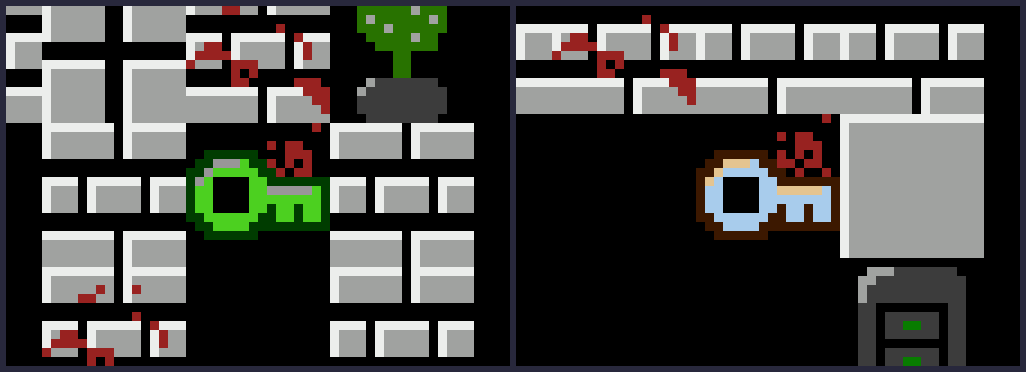
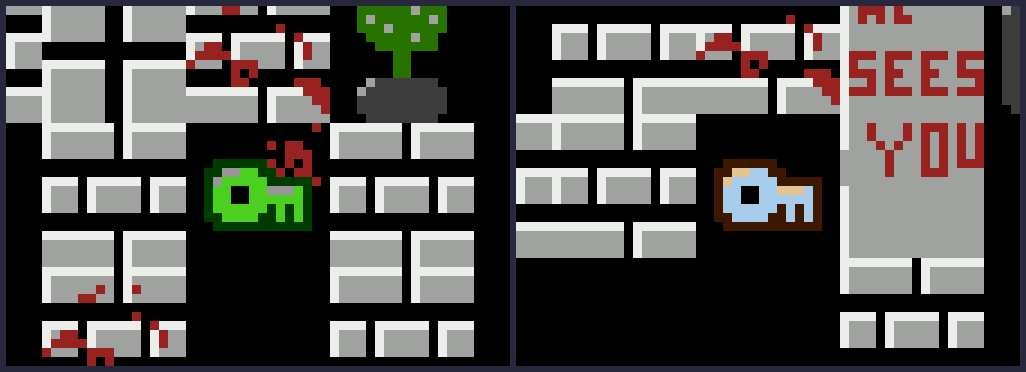
Chaves: desenho final = deitada, menor (12x8), com contorno e luz (Opcao 1)
So o desenho dos 8 tiles das chaves mudou ($30-$33 e $40-$43). chaves.s e as 4 linhas do main.s
continuam iguais; posicoes, sorteio, sala e flutuacao nao mudaram (PRG das ROMs identico byte a byte).
- chaves/TitleSprites.chr e gerar_chaves.py: arte 12x8 (identica a Opcao 1 aprovada nas imagens)
- chaves/jogo_AOC_com_chaves.nes e demo_chaves.nes recompiladas com ca65/ld65 reais
- imagens refeitas a partir das ROMs; LEIA-ME atualizado
- opcoes_tamanho/ mantida como registro da comparacao

diff --git a/SystemFailure-main/SystemFailure-main/chaves/gerar_chaves.py b/SystemFailure-main/SystemFailure-main/chaves/gerar_chaves.py
@@ -26,29 +26,30 @@ Uso:
 
 O script RECUSA e nao grava nada se algum dos 8 tiles de destino ja tiver desenho.
 Para mudar o desenho, edite o texto de CHAVE (16 linhas de 16 caracteres).
-A chave e DEITADA (horizontal); a versao em pe (vertical) esta no historico do git.
+A chave e DEITADA (horizontal) e MENOR (12x8). A versao em pe (vertical) e a deitada de 16x10 estao no historico do git.
 So precisa de Python 3 (sem bibliotecas extras).
 """
 import argparse
 import os
 import sys
 
-# Desenho base: chave DEITADA (argola a esquerda, haste para a direita, 2 dentes para baixo).
-# . = transparente | 1 = contorno | 2 = corpo | 3 = brilho
+# Desenho base: chave DEITADA e MENOR (12 x 8 pixels, centrada no quadrado de 16x16):
+# argola a esquerda, haste para a direita, 2 dentes para baixo, com contorno e luz.
+# . = transparente | 1 = contorno | 2 = corpo | 3 = luz (brilho)
 CHAVE = [
     "................",
     "................",
     "................",
-    "..111111........",
-    ".11333211.......",
-    "1132222211......",
-    "132....221111111",
-    "122....223333321",
-    "122....222222221",
-    "122....221221221",
-    "1122222211221221",
-    ".112222111111111",
-    "..111111........",
+    "................",
+    "...111111.......",
+    "..11332211......",
+    "..132222211111..",
+    "..122..2233321..",
+    "..122..2222221..",
+    "..122222212121..",
+    "..112222112121..",
+    "...11111111111..",
+    "................",
     "................",
     "................",
     "................",

diff --git a/SystemFailure-main/SystemFailure-main/chaves/LEIA-ME.md b/SystemFailure-main/SystemFailure-main/chaves/LEIA-ME.md
@@ -1,6 +1,6 @@
 # Chaves (verde e azul): lugar sorteado e flutuando
 
-Cada chave **sorteia 1 entre 3 lugares possíveis** (os círculos vermelhos dos mapas) e flutua no lugar sorteado. As chaves são desenhadas **deitadas** (na horizontal).
+Cada chave **sorteia 1 entre 3 lugares possíveis** (os círculos vermelhos dos mapas) e flutua no lugar sorteado. As chaves são desenhadas **deitadas** (na horizontal) e **pequenas** (12x8 pixels).
 
 | Chave | Sala | O que abre | Cor | Lugares possíveis |
 |---|---|---|---|---|
@@ -50,11 +50,13 @@ git push -u origin chaves
 
 E abra um Pull Request da branch `chaves` para a `main` no GitHub. Quem aceitar o PR coloca na `main`.
 
-## O desenho: chave deitada
+## O desenho: chave deitada e pequena
 
-A chave está **na horizontal**: argola à esquerda, haste para a direita e dois dentes para baixo, com o brilho em cima. Ela ocupa 16 pixels de largura e 10 de altura, no meio do quadrado de 16x16. **A posição é a mesma de antes** (o par X/Y é o canto do quadrado, e a chave fica centrada nele), e o sorteio e a flutuação não mudaram.
+A chave está **na horizontal** e é **pequena**: **12 x 8 pixels**, no meio do quadrado de 16x16 (sobram 2 pixels de cada lado e 4 em cima e embaixo). Tem argola vazada à esquerda, haste para a direita e dois dentes para baixo, com **contorno escuro** e **luz** (o brilho claro) no alto. **A posição é a mesma de antes**: o par X/Y é o canto do quadrado, e a chave fica centrada nele. O sorteio e a flutuação não mudaram.
 
-A mudança foi só o desenho nos 8 tiles das chaves (`$30-$33` e `$40-$43`). O `chaves.s` e as 4 linhas do `main.s` continuam iguais; por isso, se você já aplicou a versão anterior no seu AOC, só precisa trocar o `TitleSprites.chr`. A versão **em pé** continua no histórico do git (commit `3e425ff` desta branch), caso queiram comparar.
+Essa foi a opção escolhida entre três tamanhos e acabamentos: veja `opcoes_tamanho/`, que ficou como registro da comparação (as opções 1 e 2 e a versão anterior de 16x10). A escolhida é a **Opção 1**.
+
+A mudança, em relação à versão anterior, foi só o desenho nos 8 tiles das chaves (`$30-$33` e `$40-$43`). O `chaves.s` e as 4 linhas do `main.s` continuam iguais; por isso, se você já aplicou a versão anterior no seu AOC, só precisa trocar o `TitleSprites.chr`. As versões anteriores (em pé; deitada de 16x10) continuam no histórico do git (commits `3e425ff` e `04b39b2` desta branch).
 
 ## O que alterar para incluir no jogo final
 
